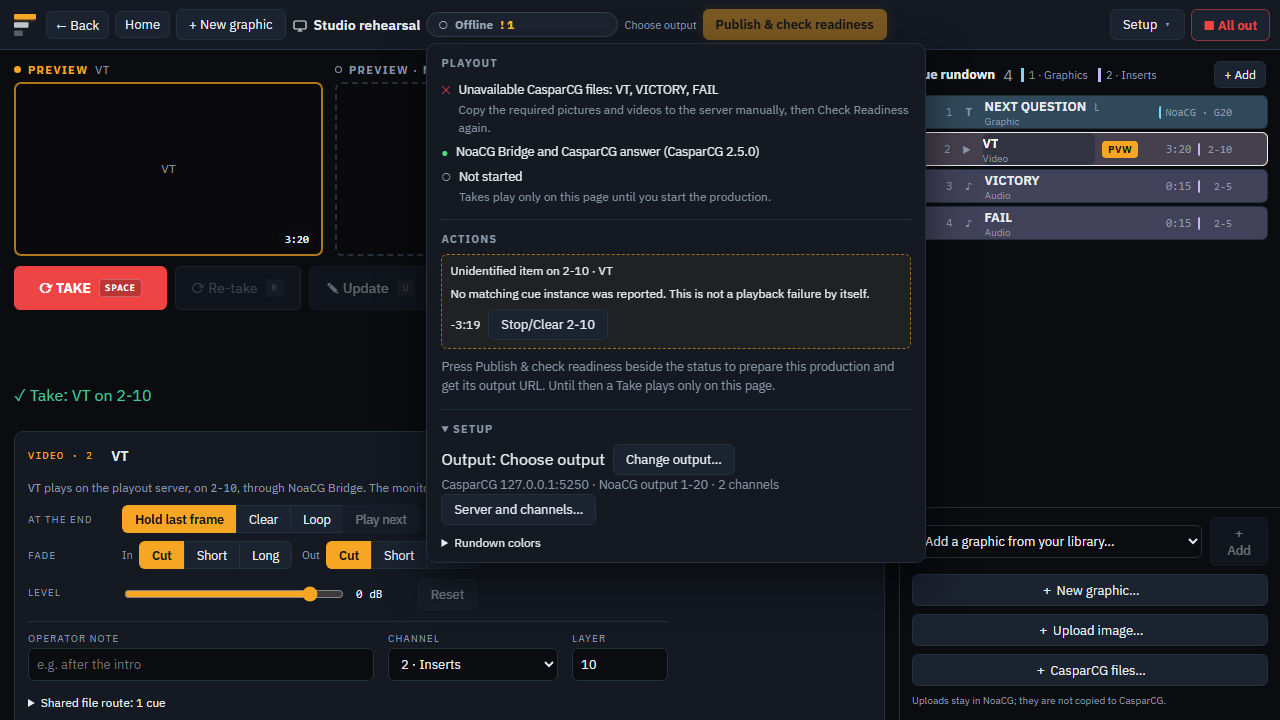
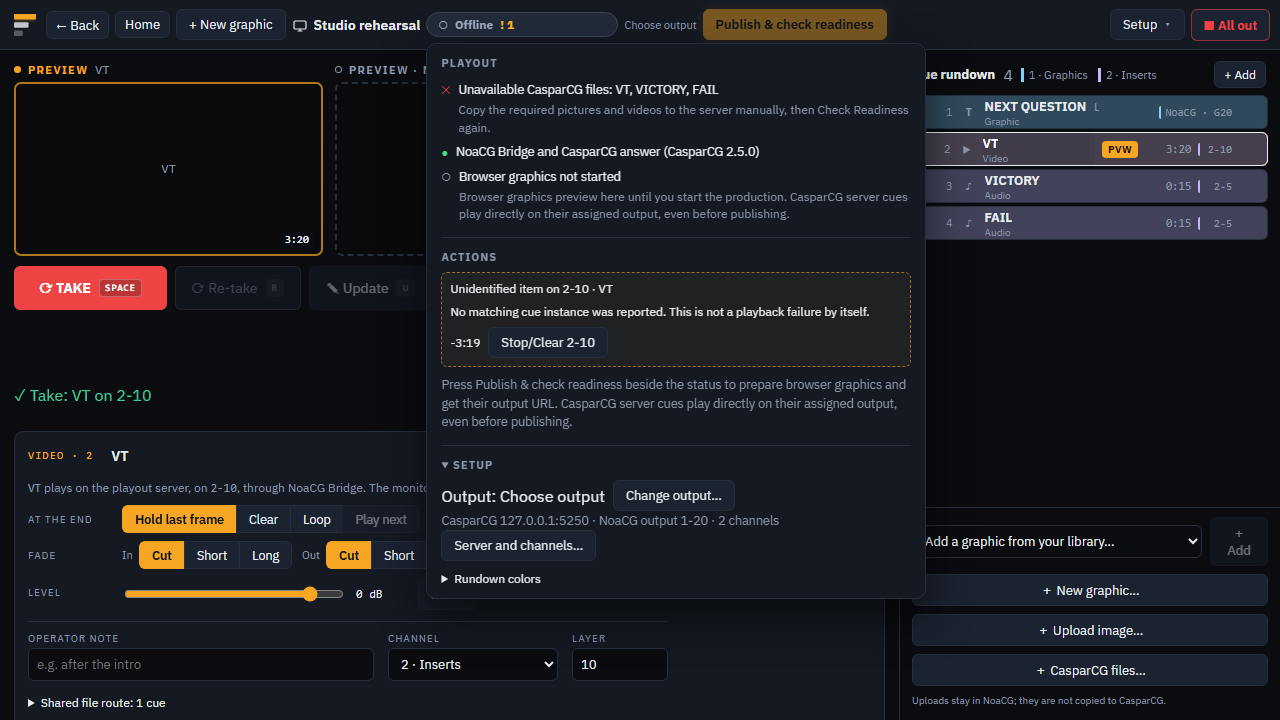
Clarify pre-publish output and record studio verification

Changed region(s): [[0.3438, 0.2444, 0.7188, 0.7639], [0.3438, 0.7944, 0.4375, 0.8556], [0.6875, 0.7639, 0.7188, 0.7944]]

diff --git a/src/control/playoutStatus.ts b/src/control/playoutStatus.ts
@@ -56,7 +56,8 @@ export interface StatusFacts {
   managedOutput?: boolean;
   destinationCheck?: StatusCheck | null;
   fileCheck?: StatusCheck | null;
-  /** The production is started (published): verbs go on the wire. */
+  /** The production is published: browser graphics use the hosted output. Native server cues
+   *  send through the Bridge independently, including before publishing. */
   started: boolean;
   /** A publish now would change what the outputs get (the record, or what they render). */
   unpublished: boolean;
@@ -142,9 +143,9 @@ export function describePlayoutStatus(f: StatusFacts): PlayoutStatus {
     checks.push({
       key: 'production',
       tone: 'idle',
-      label: 'Not started',
+      label: 'Browser graphics not started',
       short: 'Offline',
-      advice: 'Takes play only on this page until you start the production.',
+      advice: 'Browser graphics preview here until you start the production. CasparCG server cues play directly on their assigned output, even before publishing.',
     });
   } else if (f.unpublished) {
     checks.push({

diff --git a/src/components/home/ProductionPage.tsx b/src/components/home/ProductionPage.tsx
@@ -4220,7 +4220,7 @@ export default function ProductionPage({ id, sub }: { id: string; sub?: Producti
                 />
               ) : (
                 <p className="pd-ready-empty" data-testid="playout-panel-start-hint">
-                  Press Publish &amp; check readiness beside the status to prepare this production and get its output URL. Until then a Take plays only on this page.
+                  Press Publish &amp; check readiness beside the status to prepare browser graphics and get their output URL. CasparCG server cues play directly on their assigned output, even before publishing.
                 </p>
               )}
               {defaultFailure && <p className="status-warn" role="alert" data-testid="output-default-failure">Published successfully, but your account default was not saved: {defaultFailure} <button onClick={() => void retryDefault()}>Retry saving default</button></p>}

diff --git a/docs/work-specs/studio-evening-reliability/verification.md b/docs/work-specs/studio-evening-reliability/verification.md
@@ -2,8 +2,9 @@
 
 Development branch: `codex/studio-evening-reliability`, based on
 `5b34aefb477c246b50180ad2357877dd5b040c42`. This branch has not been pushed or deployed.
-This work executed no database migration, studio server restart, studio configuration change
-or CasparCG upgrade. Checks use isolated local development servers and mocked backend data.
+This work executed no hosted database migration, studio server restart, studio configuration
+change or CasparCG upgrade. Checks use isolated local development servers, mocked backend data
+and an in-memory SQL engine with the limitations recorded below.
 
 ## Review and simplification
 
@@ -32,6 +33,9 @@ Confirmed corrections during review:
     the SPX runtime globals. A fixture first reproduced the module-screen gap.
 15. Packs and wizard sets use the complete publication preflight before creating any rundown.
     The oversized-pack regression first failed because installation returned no error.
+16. Pre-publish guidance distinguishes browser graphics from native CasparCG cues. The video
+    regression rendered a completed Take through the fake Bridge beside the incorrect promise
+    that Takes stayed on this page. Corrected the displayed scope without changing transport.
 
 Simplification: inline. Kept existing playout adapters, durable storage, team compare-and-swap,
 production eligibility, shared keyboard transport and capability-protected panel relay. Removed
@@ -115,8 +119,23 @@ mocks and the local dependency fixtures do not prove the real Supabase relay.
 
 - Fetched current `origin/main` (`7878a4ef4`) and merged it locally without conflicts at
   `20715d255`. The new editor work shares no changed product file with this reliability patch.
-  Required combined-state browser checks are queued as `j-3431`; the clean build follows as
-  `j-3432`. Pending jobs are not passing verdicts.
+  Combined-state integration `j-3431` passed: 1,202 active tests, 416 skipped (33.8 minutes),
+  plus all 35 catalog checks (3.1 minutes). Its six Windows baselines and all nine new studio
+  regressions passed. Four fresh studio frames were inspected before the catalog phase cleared
+  its output directory. The dependent build `j-3432` was cancelled while waiting to allow
+  generated research captures to be retained separately and restored first.
+- Corrected the pre-publish wording after that rendered review. Existing status tests passed
+  9/9 and focused browser run `j-3438` passed 15/15 (37.1 seconds). The updated diagnostic frame
+  was inspected and retained in `built/`; rundown geometry remains unchanged. Focused ESLint
+  passed. Final affected run on frozen sources `j-3441` passed: 1,202 active tests, 416 skipped
+  (29.8 minutes), followed by all 35 catalog checks (3.1 minutes), wrapper exit 0. Generated
+  research captures were preserved in the ignored evidence folder and their committed bytes
+  restored, including a line-ending-only JSON change, before the clean build.
+- Clean build `j-3446`: exit 0. All 2,457 active gate tests passed, 3 skipped (2,460 total);
+  TypeScript, full ESLint, architecture, Vite, prerender, client-secret scan and final line-ending
+  checks passed. The separate 321-test gate suite also passed. Three unrelated sound-demo frames
+  generated by browser checks were retained separately and restored. Only result prose changed
+  after this build; the tested executable sources stayed frozen.
 - [Local relay runner](evidence/panel-relay-local.mjs): 14 behavior checks passed on each of
   PGlite 0.3.15 / PostgreSQL 17.5 and PGlite 0.5.8 / PostgreSQL 18.3. The unchanged 0073 and exact
   0077 files ran with their call self-checks. Logs: [Postgres 17](evidence/panel-relay-local-pg17.log),
@@ -137,12 +156,23 @@ mocks and the local dependency fixtures do not prove the real Supabase relay.
[1 lines of base64/hex data omitted]
 - Local infrastructure inventory: only a stopped Docker Desktop WSL distro, no usable Linux or
   native Postgres runtime, no saved local Vercel Sandbox credentials, and no existing Supabase
-  preview branch. No local services were started. Subsequent inspection found the repository's
+  preview branch. No local database/container services were started. Inspection found the repository's
   opt-in preview guard and disposable local Supabase workflow provide a CI-only test path.
   The guard returned skip for this non-main branch without its preview opt-in marker. The
   production migration/release/issue side effects are main/tag guarded. Configured relay coverage
   now tests actual delivery of both trigger-cue and legacy take-cue. CI/stack/Linux checks are
-  still pending until their receipts are recorded. The original three media files remain missing.
+  still pending until their receipts are recorded. Automatic approval review rejected the
+  feature-branch push before execution, citing source export/external CI without explicit
+  authorization. No remote branch or CI run was created, and no indirect upload was attempted.
+  The original three media files remain missing.
+- Static migration privilege/collision checks: 15 passed after the SQL fixture/default grants
+  were aligned with the read-only deployed catalog. Focused ESLint and Node syntax checks pass.
+- Local Companion prerelease package: tools 3.1.1 bundled the already verified compiled module
+  for Node 22, with manifest validation and license policy intact. Archive paths and bundled JS
+  syntax pass; it is not installed or published and has not run in Companion. The first attempt
+  met an esbuild sandbox parent-directory read denial; the permitted local retry exited 0.
+  Local ignored archive: `companion-module/noacg-studio-rehearsal-b76d238.tgz`, 81,189 bytes,
[1 lines of base64/hex data omitted]
 - Prepared [tomorrow's rehearsal checklist](rehearsal-checklist.md), with database, expiry,
   malformed/stale-command and Linux work assigned to the agent. User steps require the supplied
   isolated test build, original files, two devices and the off-air studio/ATEM route.
@@ -150,10 +180,10 @@ mocks and the local dependency fixtures do not prove the real Supabase relay.
 ## Rollout hold
 
 Do not queue-merge: landing runs production migrations/deployment automatically. Complete the
-receiving-host and copied-production rehearsals in the existing owner queue, execute SQL checks
-in an isolated database, record Linux baselines, and compare the three originals first. Retain
-the currently working application, Bridge and studio configuration for rollback.
+receiving-host and copied-production rehearsals in the existing owner queue, run the relay checks
+against a real isolated Supabase stack, record Linux baselines, and compare the three originals
+first. Retain the currently working application, Bridge and studio configuration for rollback.
 
-Release verification remains incomplete. Record a failing check stamp until the isolated SQL
-execution, Linux baselines and actual-media/receiving-host/cross-device acceptance gates pass.
+Release verification remains incomplete. Record a failing check stamp until the real isolated
+Supabase API/Realtime checks, Linux baselines and actual-media/receiving-host/cross-device gates pass.
 Passing development checks do not authorize the production deployment path.

diff --git a/docs/work-specs/studio-evening-reliability/overnight-preparation.md b/docs/work-specs/studio-evening-reliability/overnight-preparation.md
@@ -1,9 +1,12 @@
 # Overnight preparation, 2026-10-05
 
 The owner authorized unattended preparation while sleeping. Production, studio services,
-configuration, deployment and merging remain outside this run. Branch CI is allowed only after
-verifying the existing preview opt-in guard. No commit may contain the preview opt-in marker;
+configuration, deployment and merging remain outside this run. The prepared CI path for this branch needs
+explicit owner approval for the push and verification of the existing preview opt-in guard.
+No commit may contain the preview opt-in marker;
 do not request a preview, create a pull request, enter the merge queue or push `main`.
+The branch push was rejected by automatic approval review. Do not retry or use an indirect
+upload/API/other remote. The owner's explicit approval is now required before that CI path.
 
 ## Finishable work
 
@@ -22,28 +25,44 @@ Do not cancel another checkout's jobs or reclaim its processes. No new agent del
 ## Runtime findings
 
 - WSL has only a stopped `docker-desktop` distribution. No Docker/Postgres executable is on PATH.
-  No distro, service or studio process was started.
+  No WSL, database, container or studio service was started.
 - No existing Supabase development branch is available. Production is the sole default branch.
   Only read-only catalog metadata was queried. No hosted migration or data write was executed.
 - The pinned Vercel Sandbox SDK is installed, but no local Sandbox token or saved CLI auth is
   available. Do not initiate an interactive sign-in or change deployment configuration overnight.
 - The repository's existing `vercel-ignore-build.mjs` skips every non-main branch without the
   preview opt-in marker. A child-process check returned exit 0 (skip). Production migration,
-  release and alarm workflows are main/tag guarded. Branch CI is offline. The manual
+  release and alarm workflows are main/tag guarded. Automatic branch CI is offline. The manual
   `configured-suite.yml` workflow starts a disposable Docker Supabase stack on Ubuntu, uses
   local test accounts and no hosted credentials, and never files/closes main's alarm on a branch.
-  This supplies the missing SQL/API/Realtime and Linux runtime without creating cloud resources
+  This would supply the missing SQL/API/Realtime and Linux runtime without creating cloud resources
   or changing studio configuration. Push only this feature branch after committing preparation,
-  then dispatch configured-suite and rerecord-screenshots on its exact tip. Download and inspect
+  and only after the owner approves the rejected push. Then dispatch configured-suite and
+  rerecord-screenshots on its exact tip. Download and inspect
   Linux frames before committing them. Never substitute Windows frames for Linux baselines.
 
 ## Job receipts
 
-- `j-3431`: required integration run after reconciliation; queued behind another checkout's work.
-- `j-3432`: clean build, dependent on `j-3431` succeeding.
+- `j-3431`: passed, 1,202 active browser tests / 416 skipped, plus 35/35 catalog checks.
+- Rendered review found false preview-only wording beside a native CasparCG Take. The copy is
+  now scoped to browser graphics; no transport logic changed. Status tests pass 9/9 and focused
+  studio/output browser checks `j-3438` pass 15/15. The corrected diagnostic frame was inspected.
+- `j-3441`: final affected browser run passed after that correction, on frozen product sources:
+  1,202 active tests / 416 skipped, plus 35/35 catalog checks. Generated research artifacts were
+  retained separately and restored before the clean build.
+- `j-3432`: cancelled while waiting so test-generated research captures can be retained separately
+  and restored before a replacement clean build. No running build was interrupted.
+- `j-3446`: replacement clean build passed, exit 0. 2,457 active gate tests / 3 skipped; the
+  separate 321-test suite, TypeScript, lint, architecture, bundle, prerender and final checks pass.
 - Local SQL behavior: 14 checks passed on each of PostgreSQL 17.5 and 18.3 through pinned PGlite
   runtimes, no hosted connection. The read-only catalog reports production uses PostgreSQL 17.6.
-- Build and SQL receipts will be added to [verification](verification.md) when they complete.
+- Remote push: rejected before execution; no remote branch or CI run was created by this action.
+- Build, browser and SQL receipts are recorded in [verification](verification.md).
+- Local Companion prerelease archive prepared without installation/publication:
+  `companion-module/noacg-studio-rehearsal-b76d238.tgz` (ignored output, 81,189 bytes).
[1 lines of base64/hex data omitted]
+  Package manifest, archive paths and bundled-JavaScript syntax checked. This does not establish
+  Companion runtime behavior. Its direct-cue relay still needs the isolated backend check.
 
 ## Continuation without a schedule
 
@@ -55,6 +74,8 @@ runtime, physical equipment or source file is an honest boundary, not a reason t
 No scheduled follow-up was created. Automatic approval review refused the proposed heartbeat
 because it would create recurring work beyond the preparation request. Preparation continues
 in the active run. A later manual continuation can resume the recorded jobs safely.
+Automatic approval review also rejected the feature-branch push, citing the export of source and
+external CI without explicit authorization. Report that boundary to the owner; do not bypass it.
 
 The run ends when preparation is complete or at 2026-10-06 06:00 UTC, whichever is first.
 If all remaining work needs unavailable infrastructure or the owner, write the report and stop.

diff --git a/docs/work-specs/studio-evening-reliability/rehearsal-checklist.md b/docs/work-specs/studio-evening-reliability/rehearsal-checklist.md
@@ -8,6 +8,9 @@ application and studio configuration available for rollback.
 Bring the problematic original video and the two working originals, or their accessible file
 paths. Record the Bridge and CasparCG versions. The agent compares the files and interprets
 Bridge/INFO evidence; the operator does not need to run analysis or database commands.
+For the known quiz import fix, also bring its original/corrected delivery SVG if available.
+Export the intended artboard with Illustrator editing data disabled and the question/answers
+inside the canvas. The agent checks the cleaned import's appearance and early eligibility.
 
 Record pass/fail beside each step. An unexpected interruption ends that test; return to the
 working production path and retain the recording or screenshot for investigation.

diff --git a/docs/work-specs/studio-evening-reliability/operator-guide.md b/docs/work-specs/studio-evening-reliability/operator-guide.md
@@ -28,6 +28,10 @@ offline writers still need conflict review; the team save path retains its serve
 
 ## Readiness during playout
 
+Native CasparCG server cues send directly through the Bridge to their assigned output, including
+before publishing. Browser graphics preview locally until the production is started. The browser
+output's Offline state does not mean a server video or sound stays on the laptop.
+
 Read the words with the color. A healthy prepared output with changed graphics means continue
 using its prepared content, and prepare before relying on the changed assets. Failed or missing
 output/Bridge feedback means readiness is unconfirmed; check the actual program monitor before
